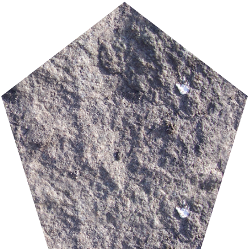
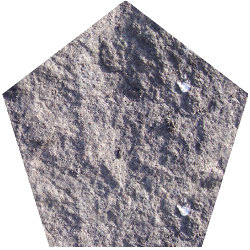
Se refinan las presentaciones de los poligonos de lados impares, aunque no quedo perfecto, creo que como esta va bien... Hagan sus comentarios al respecto

diff --git a/tallerDeProgramacionI-SnowBros/src/Vista/Drawer.cpp b/tallerDeProgramacionI-SnowBros/src/Vista/Drawer.cpp
@@ -225,11 +225,10 @@ void Drawer::drawFigura(Figura* figura) {
 		{
 		    float pointX = this->escala * sin(i * angle);
 		    float pointY = this->escala * cos(i * angle);
-		}
-*/
+		}*/
 		if(lados == 3){
 			triangleTexture.render(renderer, coord_relativa(coordRel.x, un_to_px_x * (p.x-escala*sin(2*M_PI/3)) + ox),
-					   coord_relativa(coordRel.y, -un_to_px_y * (p.y+0.75) + oy),
+					   coord_relativa(coordRel.y, -un_to_px_y * (p.y+0.9*escala) + oy),
 					   2*escala*sin(2*M_PI/3)*un_to_px_x, escala*1.5*un_to_px_y,
 					   nullptr, polygon->getAngulo()*-RADTODEG, nullptr);
 		}
@@ -240,9 +239,9 @@ void Drawer::drawFigura(Figura* figura) {
 											  nullptr, polygon->getAngulo()*-RADTODEG, nullptr);
 		}
 		else if (lados == 5){
-			pentagonTexture.render(renderer, coord_relativa(coordRel.x, un_to_px_x * (p.x-escala*sin(2*M_PI/5)) + ox),
+			pentagonTexture.render(renderer, coord_relativa(coordRel.x, un_to_px_x * (p.x-escala*0.951057) + ox),
 					   coord_relativa(coordRel.y, -un_to_px_y * (p.y+escala*(1.809017/2)) + oy),
-					   2*escala*sin(2*M_PI/5)*un_to_px_x, 1.809017*escala*un_to_px_y,
+					   2*escala*0.951057*un_to_px_x, escala*1.809017*un_to_px_y,
 					   nullptr, polygon->getAngulo()*-RADTODEG, nullptr);
 		}
 		else{		// SI no entro en ningun if anterior, es un hexagono
